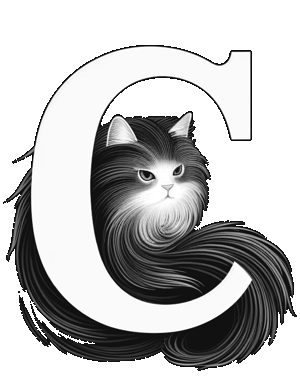
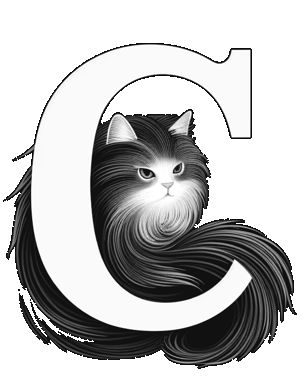
Adjustments to dropcats (B C G I dark)

diff --git a/js/head-GENERATED.js b/js/head-GENERATED.js
@@ -3606,32 +3606,32 @@ GW.assetVersions = {
 	"/static/font/drop-cap/dropcat/dark/B-1-small-2x.png": "1698168328",
 	"/static/font/drop-cap/dropcat/dark/B-2-small-1x.png": "1698168328",
 	"/static/font/drop-cap/dropcat/dark/B-2-small-2x.png": "1698168328",
-	"/static/font/drop-cap/dropcat/dark/B-3-small-1x.png": "1698168328",
-	"/static/font/drop-cap/dropcat/dark/B-3-small-2x.png": "1698168328",
+	"/static/font/drop-cap/dropcat/dark/B-3-small-1x.png": "1698290747",
+	"/static/font/drop-cap/dropcat/dark/B-3-small-2x.png": "1698290747",
 	"/static/font/drop-cap/dropcat/dark/B-4-small-1x.png": "1698168328",
 	"/static/font/drop-cap/dropcat/dark/B-4-small-2x.png": "1698168328",
-	"/static/font/drop-cap/dropcat/dark/C-1-small-1x.png": "1698179657",
-	"/static/font/drop-cap/dropcat/dark/C-1-small-2x.png": "1698179657",
-	"/static/font/drop-cap/dropcat/dark/C-2-small-1x.png": "1698179656",
-	"/static/font/drop-cap/dropcat/dark/C-2-small-2x.png": "1698179657",
-	"/static/font/drop-cap/dropcat/dark/C-3-small-1x.png": "1698179812",
-	"/static/font/drop-cap/dropcat/dark/C-3-small-2x.png": "1698179812",
+	"/static/font/drop-cap/dropcat/dark/C-1-small-1x.png": "1698291179",
+	"/static/font/drop-cap/dropcat/dark/C-1-small-2x.png": "1698291178",
+	"/static/font/drop-cap/dropcat/dark/C-2-small-1x.png": "1698291178",
+	"/static/font/drop-cap/dropcat/dark/C-2-small-2x.png": "1698291178",
+	"/static/font/drop-cap/dropcat/dark/C-3-small-1x.png": "1698291178",
+	"/static/font/drop-cap/dropcat/dark/C-3-small-2x.png": "1698291178",
 	"/static/font/drop-cap/dropcat/dark/G-1-small-1x.png": "1698168078",
 	"/static/font/drop-cap/dropcat/dark/G-1-small-2x.png": "1698168078",
-	"/static/font/drop-cap/dropcat/dark/G-2-small-1x.png": "1698168078",
-	"/static/font/drop-cap/dropcat/dark/G-2-small-2x.png": "1698168078",
-	"/static/font/drop-cap/dropcat/dark/G-3-small-1x.png": "1698168472",
-	"/static/font/drop-cap/dropcat/dark/G-3-small-2x.png": "1698168472",
+	"/static/font/drop-cap/dropcat/dark/G-2-small-1x.png": "1698291705",
+	"/static/font/drop-cap/dropcat/dark/G-2-small-2x.png": "1698291706",
+	"/static/font/drop-cap/dropcat/dark/G-3-small-1x.png": "1698291705",
+	"/static/font/drop-cap/dropcat/dark/G-3-small-2x.png": "1698291705",
 	"/static/font/drop-cap/dropcat/dark/G-4-small-1x.png": "1698168079",
 	"/static/font/drop-cap/dropcat/dark/G-4-small-2x.png": "1698168079",
-	"/static/font/drop-cap/dropcat/dark/G-5-small-1x.png": "1698168078",
-	"/static/font/drop-cap/dropcat/dark/G-5-small-2x.png": "1698168078",
-	"/static/font/drop-cap/dropcat/dark/G-6-small-1x.png": "1698168078",
-	"/static/font/drop-cap/dropcat/dark/G-6-small-2x.png": "1698168078",
+	"/static/font/drop-cap/dropcat/dark/G-5-small-1x.png": "1698291705",
+	"/static/font/drop-cap/dropcat/dark/G-5-small-2x.png": "1698291705",
+	"/static/font/drop-cap/dropcat/dark/G-6-small-1x.png": "1698291705",
+	"/static/font/drop-cap/dropcat/dark/G-6-small-2x.png": "1698291706",
 	"/static/font/drop-cap/dropcat/dark/G-7-small-1x.png": "1698168078",
 	"/static/font/drop-cap/dropcat/dark/G-7-small-2x.png": "1698168078",
-	"/static/font/drop-cap/dropcat/dark/I-1-small-1x.png": "1698179130",
-	"/static/font/drop-cap/dropcat/dark/I-1-small-2x.png": "1698179130",
+	"/static/font/drop-cap/dropcat/dark/I-1-small-1x.png": "1698291954",
+	"/static/font/drop-cap/dropcat/dark/I-1-small-2x.png": "1698291954",
 	"/static/font/drop-cap/dropcat/dark/Q-1-small-1x.png": "1698208039",
 	"/static/font/drop-cap/dropcat/dark/Q-1-small-2x.png": "1698208039",
 	"/static/font/drop-cap/dropcat/dark/Q-10-small-1x.png": "1698208038",

diff --git a/js/asset-versions-GENERATED.js b/js/asset-versions-GENERATED.js
@@ -40,32 +40,32 @@ GW.assetVersions = {
 	"/static/font/drop-cap/dropcat/dark/B-1-small-2x.png": "1698168328",
 	"/static/font/drop-cap/dropcat/dark/B-2-small-1x.png": "1698168328",
 	"/static/font/drop-cap/dropcat/dark/B-2-small-2x.png": "1698168328",
-	"/static/font/drop-cap/dropcat/dark/B-3-small-1x.png": "1698168328",
-	"/static/font/drop-cap/dropcat/dark/B-3-small-2x.png": "1698168328",
+	"/static/font/drop-cap/dropcat/dark/B-3-small-1x.png": "1698290747",
+	"/static/font/drop-cap/dropcat/dark/B-3-small-2x.png": "1698290747",
 	"/static/font/drop-cap/dropcat/dark/B-4-small-1x.png": "1698168328",
 	"/static/font/drop-cap/dropcat/dark/B-4-small-2x.png": "1698168328",
-	"/static/font/drop-cap/dropcat/dark/C-1-small-1x.png": "1698179657",
-	"/static/font/drop-cap/dropcat/dark/C-1-small-2x.png": "1698179657",
-	"/static/font/drop-cap/dropcat/dark/C-2-small-1x.png": "1698179656",
-	"/static/font/drop-cap/dropcat/dark/C-2-small-2x.png": "1698179657",
-	"/static/font/drop-cap/dropcat/dark/C-3-small-1x.png": "1698179812",
-	"/static/font/drop-cap/dropcat/dark/C-3-small-2x.png": "1698179812",
+	"/static/font/drop-cap/dropcat/dark/C-1-small-1x.png": "1698291179",
+	"/static/font/drop-cap/dropcat/dark/C-1-small-2x.png": "1698291178",
+	"/static/font/drop-cap/dropcat/dark/C-2-small-1x.png": "1698291178",
+	"/static/font/drop-cap/dropcat/dark/C-2-small-2x.png": "1698291178",
+	"/static/font/drop-cap/dropcat/dark/C-3-small-1x.png": "1698291178",
+	"/static/font/drop-cap/dropcat/dark/C-3-small-2x.png": "1698291178",
 	"/static/font/drop-cap/dropcat/dark/G-1-small-1x.png": "1698168078",
 	"/static/font/drop-cap/dropcat/dark/G-1-small-2x.png": "1698168078",
-	"/static/font/drop-cap/dropcat/dark/G-2-small-1x.png": "1698168078",
-	"/static/font/drop-cap/dropcat/dark/G-2-small-2x.png": "1698168078",
-	"/static/font/drop-cap/dropcat/dark/G-3-small-1x.png": "1698168472",
-	"/static/font/drop-cap/dropcat/dark/G-3-small-2x.png": "1698168472",
+	"/static/font/drop-cap/dropcat/dark/G-2-small-1x.png": "1698291705",
+	"/static/font/drop-cap/dropcat/dark/G-2-small-2x.png": "1698291706",
+	"/static/font/drop-cap/dropcat/dark/G-3-small-1x.png": "1698291705",
+	"/static/font/drop-cap/dropcat/dark/G-3-small-2x.png": "1698291705",
 	"/static/font/drop-cap/dropcat/dark/G-4-small-1x.png": "1698168079",
 	"/static/font/drop-cap/dropcat/dark/G-4-small-2x.png": "1698168079",
-	"/static/font/drop-cap/dropcat/dark/G-5-small-1x.png": "1698168078",
-	"/static/font/drop-cap/dropcat/dark/G-5-small-2x.png": "1698168078",
-	"/static/font/drop-cap/dropcat/dark/G-6-small-1x.png": "1698168078",
-	"/static/font/drop-cap/dropcat/dark/G-6-small-2x.png": "1698168078",
+	"/static/font/drop-cap/dropcat/dark/G-5-small-1x.png": "1698291705",
+	"/static/font/drop-cap/dropcat/dark/G-5-small-2x.png": "1698291705",
+	"/static/font/drop-cap/dropcat/dark/G-6-small-1x.png": "1698291705",
+	"/static/font/drop-cap/dropcat/dark/G-6-small-2x.png": "1698291706",
 	"/static/font/drop-cap/dropcat/dark/G-7-small-1x.png": "1698168078",
 	"/static/font/drop-cap/dropcat/dark/G-7-small-2x.png": "1698168078",
-	"/static/font/drop-cap/dropcat/dark/I-1-small-1x.png": "1698179130",
-	"/static/font/drop-cap/dropcat/dark/I-1-small-2x.png": "1698179130",
+	"/static/font/drop-cap/dropcat/dark/I-1-small-1x.png": "1698291954",
+	"/static/font/drop-cap/dropcat/dark/I-1-small-2x.png": "1698291954",
 	"/static/font/drop-cap/dropcat/dark/Q-1-small-1x.png": "1698208039",
 	"/static/font/drop-cap/dropcat/dark/Q-1-small-2x.png": "1698208039",
 	"/static/font/drop-cap/dropcat/dark/Q-10-small-1x.png": "1698208038",

diff --git a/include/inlined-head.html b/include/inlined-head.html
@@ -912,5 +912,5 @@ a[data-link-icon-type*='svg'] .link-icon-hook::after {
 }
 </style>
 <link rel="stylesheet" href="/static/css/head.css?v=1698263740">
-<script src="/static/js/head.js?v=1698287343"></script>
+<script src="/static/js/head.js?v=1698292054"></script>
 <link rel="preload" href="/static/img/icon/icons.svg?v=1698021605" as="image">
